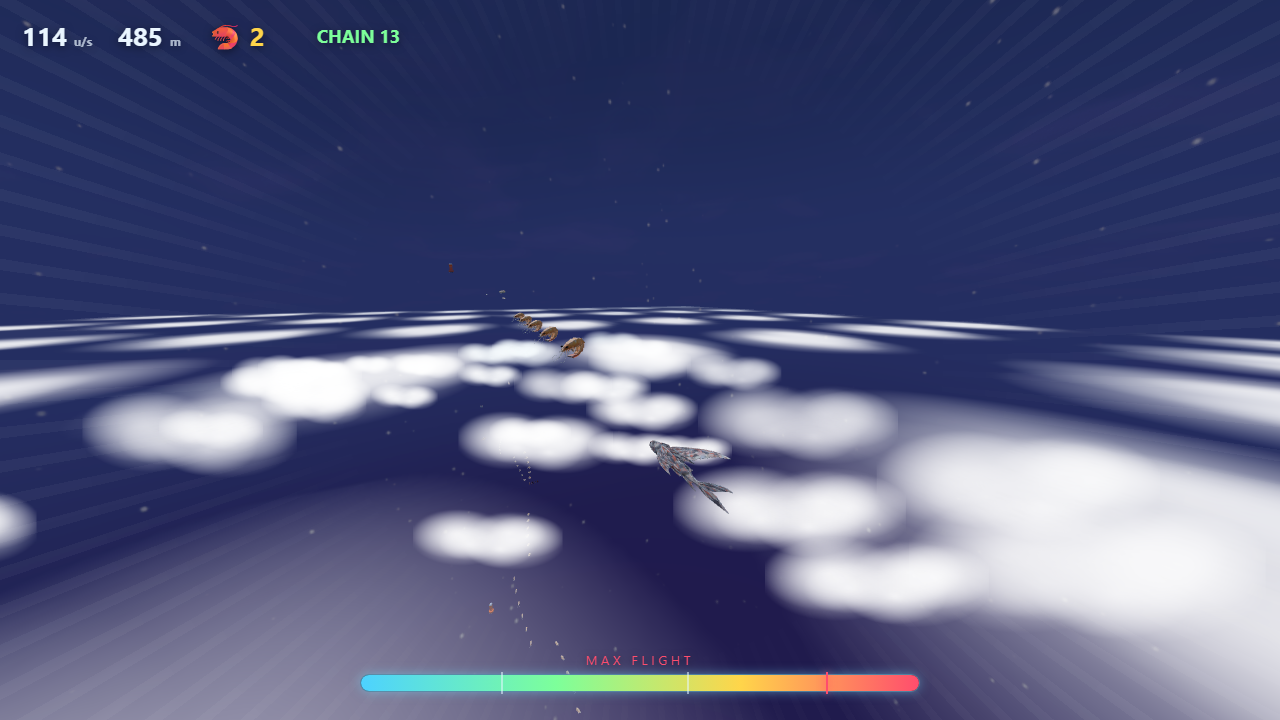
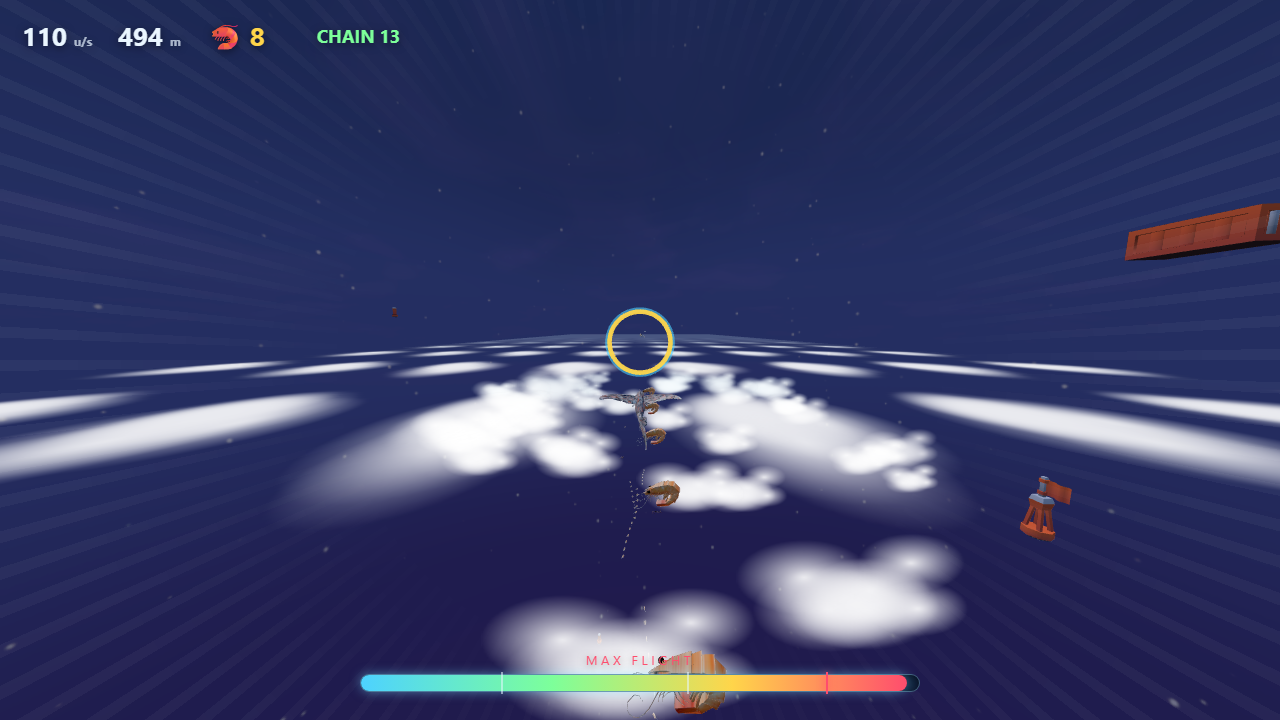
fix: flight-vision review pass - sky world visibility, restart rebuild, ocean hidden behind the curtain, real FOV swell, landing splash
Findings from the whole-branch review of b5be1f2, re-graded by player effect:

- main.js: sky world was visible during the first swim (visibility only written
  on change; Group defaults to visible) - now initialized hidden; the curtain
  now hides the ocean world too (obstacles + ocean shrimp), not just the water;
  tier:down POWER DOWN spam suppressed while flying (the gauge drain IS the
  flight timer); slow-mo restores the pre-leap timeScale instead of clobbering it
- sky-world.js: reset(playerZ) on run:start (the sky was empty on every later
  flight - trails parked at the old z); cloud slab follows the player on z;
  props bob from a base y instead of random-walking upward
- camera.js: FOV punch was lerp(95, 95, punch) = no-op at max tier; now a real
  60 -> 95 swell; the blow-up shake rides during the leap instead of after it
- player.js: landing from a 30 u/s descent fired no splash (velocity zeroed
  before the water-entry test)
- game.js: setOceanVisible toggles chunk groups + ocean coins (world.chunks is
  a Map - iterate .values()); tutorial copy teaches the gate/SPAM/leap vision
- audio.js: launch:spam finally has a sound
- t19 extended: visibility at run start, chain gate holds at a full gauge, FOV
  range across the leap, later flights skip the spam, sky rebuilt after restart
- t07: fixed timeout replaced with frame polling

suite: 40/40 unit, 14/14 browser

diff --git a/js/main.js b/js/main.js
@@ -62,6 +62,8 @@ const audio = createAudio(settings, bus);
 // two environments: the ocean below the cloud curtain, the sky world above it
 const clouds = createClouds(scene);
 const skyWorld = createSkyWorld(scene, game.templates, game.coinTemplate);
+skyWorld.group.visible = false; // the sky exists only above the clouds
+bus.on('run:start', () => skyWorld.reset(game.player.state.position.z));
 
 // adaptive music: ladder tracks crossfaded by normalized momentum (game speed)
 const music = createAdaptiveMusicController({
@@ -131,6 +133,8 @@ function updateEnvironment(y) {
   if (!above) scene.background = dayBg;
   water.mesh.visible = !above;
   skyWorld.group.visible = above;
+  // the curtain also hides the ocean world itself: obstacles + ocean shrimp
+  game.setOceanVisible(!above);
 }
 
 // ---- loop with clamped dt (tab-switch guard) ----
@@ -318,6 +322,8 @@ bus.on('prompt:expired', () => juice.popup('MISSED', '#9fb3c8', true));
 bus.on('prompt:spawn', () => ring.resetColors());
 bus.on('tier:up', () => juice.popup('TIER UP', '#9dff7a', true));
 bus.on('tier:down', () => {
+  // draining in the sky is the flight timer, not a power-down: don't spam the popup
+  if (game.state.flying) return;
   juice.popup('POWER DOWN', '#ff9f43');
   cameraRig.shake(0.3);
 });
@@ -331,10 +337,12 @@ bus.on('plane:exit', () => juice.popup('POWER DOWN', '#ff9f43'));
 
 // ---- launch ritual announcements + slow-mo punch through the clouds ----
 bus.on('launch:charge', () => juice.popup('SPAM SPACE!', '#7dff9a', true));
+let scaleBeforeLeap = 1;
 bus.on('launch:blow', () => {
   juice.popup('LIFTOFF!', '#ffd54a', true);
-  timeScale = 0.35; // slow-mo while the camera punches through the curtain
-  setTimeout(() => { timeScale = 1; }, 800);
+  scaleBeforeLeap = timeScale; // restore what the player/debug had, not a hard 1
+  timeScale = 0.35;            // ~0.8s of slow-mo through the curtain (HANDOFF spec)
+  setTimeout(() => { timeScale = scaleBeforeLeap; }, 800);
   cameraRig.shake(0.4);
 });
 
@@ -377,6 +385,11 @@ window.__FFM_API = {
   debugForceFlight: () => game.debugForceFlight(),
   debugSpam: () => game.debugSpam(),
   debugEnvironment: () => environment,
+  debugVisibility: () => ({
+    sky: skyWorld.group.visible,
+    water: water.mesh.visible,
+    skyInfo: skyWorld.debugInfo(game.player.state.position.z),
+  }),
   debugTeleportToCoin: () => game.debugTeleportToCoin(),
   debugTeleportFar: (z) => { game.player.state.position.z = z; },
   debugCameraPos: () => camera.position.toArray(),

diff --git a/js/sky-world.js b/js/sky-world.js
@@ -58,6 +58,7 @@ export function createSkyWorld(scene, templates, coinTemplate) {
         floorY + Math.random() * 26,
         playerZ - 150 + Math.random() * 380,
       );
+      p.baseY = p.group.position.y; // bob offset base, so y never random-walks
     }
     for (const g of trailCoins) group.remove(g);
     trailCoins.length = 0;
@@ -71,10 +72,11 @@ export function createSkyWorld(scene, templates, coinTemplate) {
   function update(dt, playerPos) {
     if (!group.visible) return;
     slab.position.x = playerPos.x;
+    slab.position.z = playerPos.z; // keep the slab under the fish for the whole flight
     for (const p of props) {
       p.group.rotation.y += p.spin * dt;
-      // gentle bob so the props feel afloat
-      p.group.position.y += Math.sin(performance.now() * 0.0008 + p.z) * 0.004;
+      // gentle bob so the props feel afloat (offset from the base, never accumulated)
+      p.group.position.y = p.baseY + Math.sin(performance.now() * 0.0008 + p.z) * 0.004;
       const dz = p.group.position.z - playerPos.z;
       if (dz > 120) p.group.position.z -= 470;
       else if (dz < -350) p.group.position.z += 470;
@@ -95,5 +97,14 @@ export function createSkyWorld(scene, templates, coinTemplate) {
 
   resetLayout(0);
 
-  return { group, update };
+  // a new run starts the fish back at z=0: rebuild the sky around it
+  function reset(playerZ) { resetLayout(playerZ); }
+
+  function debugInfo(playerZ) {
+    let ahead = 0;
+    for (const g of trailCoins) if (g.position.z > playerZ && g.position.z < playerZ + 300) ahead++;
+    return { trailAhead: ahead, slabZ: Math.round(slab.position.z), playerZ: Math.round(playerZ) };
+  }
+
+  return { group, update, reset, debugInfo };
 }

diff --git a/js/game.js b/js/game.js
@@ -60,10 +60,10 @@ export async function createGame({ scene, camera, renderer, water, settings, sto
   const TUTORIAL_STEPS = [
     { on: 'prompt:spawn', text: 'Press SPACE when the ring shrinks to the gold core!' },
     { on: 'timing:result', match: 'perfect', text: 'PERFECT! Speed and gauge jump up.' },
-    { on: 'tier:up', text: 'Gauge fills → LOW FLIGHT! Timing unlocks flight tiers.' },
+    { on: 'tier:up', text: 'Gauge fills! Keep going — at a FULL gauge you launch into the sky.' },
     { on: 'prompt:spawn', text: 'Chain the next one for more momentum.' },
     { on: 'timing:result', match: 'miss', text: 'Missing costs speed and gauge. Rebuild and relaunch!' },
-    { on: 'timeout', seconds: 5, text: 'Now fly. Chase MAX FLIGHT — collect shrimp on the way!' },
+    { on: 'timeout', seconds: 5, text: 'Full gauge? Mash SPACE to overfill it — then you fly!' },
   ];
 
   function startTutorial() {
@@ -439,6 +439,11 @@ export async function createGame({ scene, camera, renderer, water, settings, sto
     debugSetAltitude: (y) => { player.state.position.y = y; },
     debugForceFlight: () => enterFlight(), // the real transition: also fires plane:enter
     debugSpam: () => spamPress(),
+    // hide the ocean world (obstacles + ocean shrimp) while the fish is in the sky
+    setOceanVisible: (v) => {
+      for (const chunk of world.chunks.values()) chunk.group.visible = v;
+      for (const coin of coins.active) coin.group.visible = v;
+    },
   };
 
   return gameApi;

diff --git a/js/camera.js b/js/camera.js
@@ -38,9 +38,18 @@ export function createCamera(camera, settings) {
         p.y + THREE.MathUtils.lerp(2.5, 6.5, t) + t * 2,
         p.z + Math.cos(theta) * radius - 3,
       );
+      // shake from the blow-up rides along during the leap too
+      lastShakeOffset.set(0, 0, 0);
+      if (shakeState.time > 0) {
+        shakeState.time -= dt;
+        const s = shakeState.strength * settings.cameraShake;
+        lastShakeOffset.set((Math.random() - 0.5) * s, (Math.random() - 0.5) * s, 0);
+        camera.position.add(lastShakeOffset);
+      }
       camera.lookAt(p.x, p.y + 1 + t * 4, p.z + 4);
-      const punch = Math.sin(t * Math.PI); // peaks mid-rise, settled at both ends
-      const targetFov = THREE.MathUtils.lerp(profileFov, 95, punch);
+      // one-way FOV swell 60 -> 95 across the rise (the tier fov is already 95
+      // at max tier, so punching from it would be a no-op)
+      const targetFov = THREE.MathUtils.lerp(60, 95, t);
       camera.fov += (targetFov - camera.fov) * Math.min(1, dt * 6);
       camera.updateProjectionMatrix();
       return;

diff --git a/js/player.js b/js/player.js
@@ -95,8 +95,15 @@ export function createPlayer(scene, fish) {
         state.position.y -= FLIGHT.descendSpeed * dt;
         state.verticalVel = -FLIGHT.descendSpeed;
         if (state.position.y <= waterY) {
+          const impact = Math.abs(state.verticalVel);
           state.position.y = waterY;
           state.verticalVel = 0;
+          // a 30 u/s landing IS a water entry: splash + squash before the swim pose
+          if (impact > 6 && state.waterEntryCooldown <= 0) {
+            state.waterEntryCooldown = 0.8;
+            state.squashDip = Math.min(1, impact / 12);
+            game.onWaterEntry?.(impact);
+          }
           game.onLanded?.();
         }
         break;

diff --git a/js/audio.js b/js/audio.js
@@ -300,6 +300,7 @@ export function createAudio(settings, bus) {
     bus.on('collision:major', sfx.collisionMajor);
     bus.on('plane:enter', sfx.planeEnter);
     bus.on('plane:exit', sfx.planeExit);
+    bus.on('launch:spam', sfx.ui); // every mash clicks — the ritual has to feel physical
     bus.on('run:end', sfx.runEnd);
     bus.on('run:start', () => { resume(); startAmbient(); }); // music: synth vs files decided in main.js
     bus.on('ui:menu', stopAmbient);

diff --git a/README.md b/README.md
@@ -64,7 +64,8 @@ Friends click the link and play in any modern browser. No install.
    (0-120). At a full gauge with a chain of hits, the launch sequence starts.
    Flight is no longer a passive tier; it is an event you trigger.
 4. **First flight: SPAM-QTE** — the fish locks and trembles at the surface.
-   **Mash SPACE** for 5 s to overfill the gauge past its max - then it **blows**.
+   **Mash SPACE** to overfill the gauge past its max - then it **blows**. Four
+   presses do it; if you stop mashing, the gauge blows on its own after 5 s.
 5. **Cinematic leap** — slow-mo, the camera orbits and rises as the fish punches
    through the cloud layer to a fixed altitude, **above the clouds**.
 6. **Fly like a plane** — in the sky you hold altitude and steer freely. Perfect
